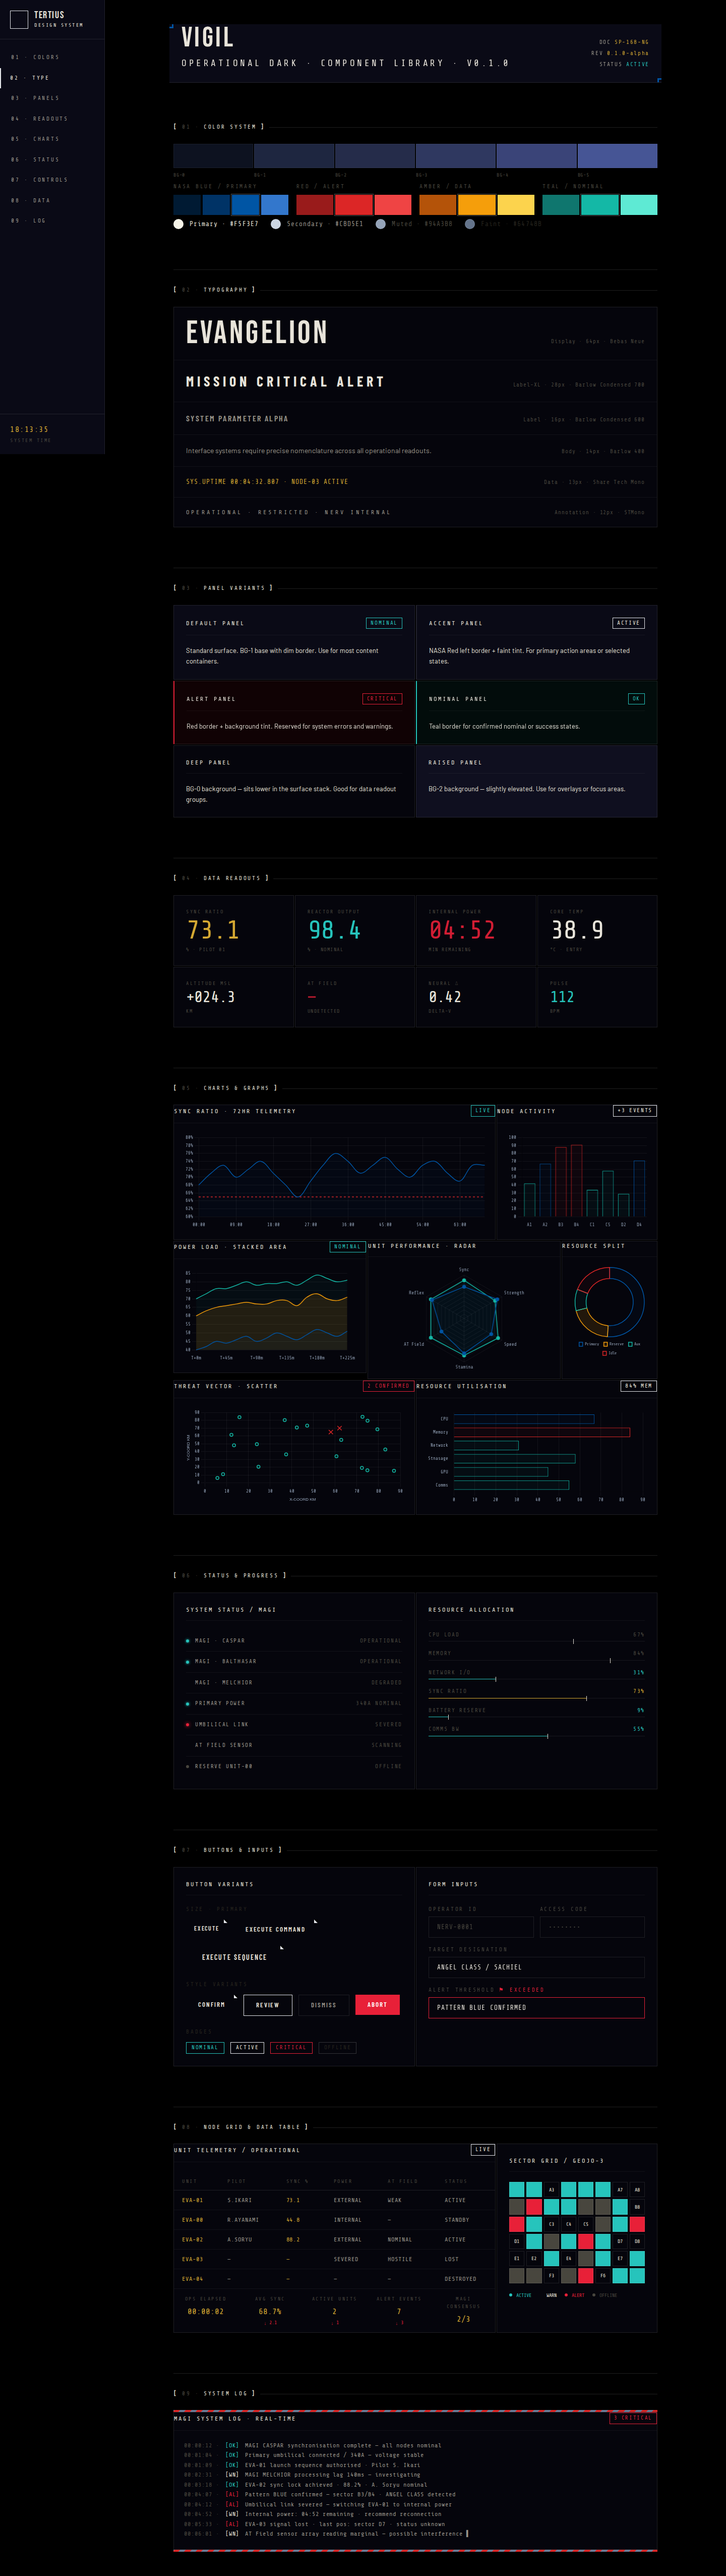
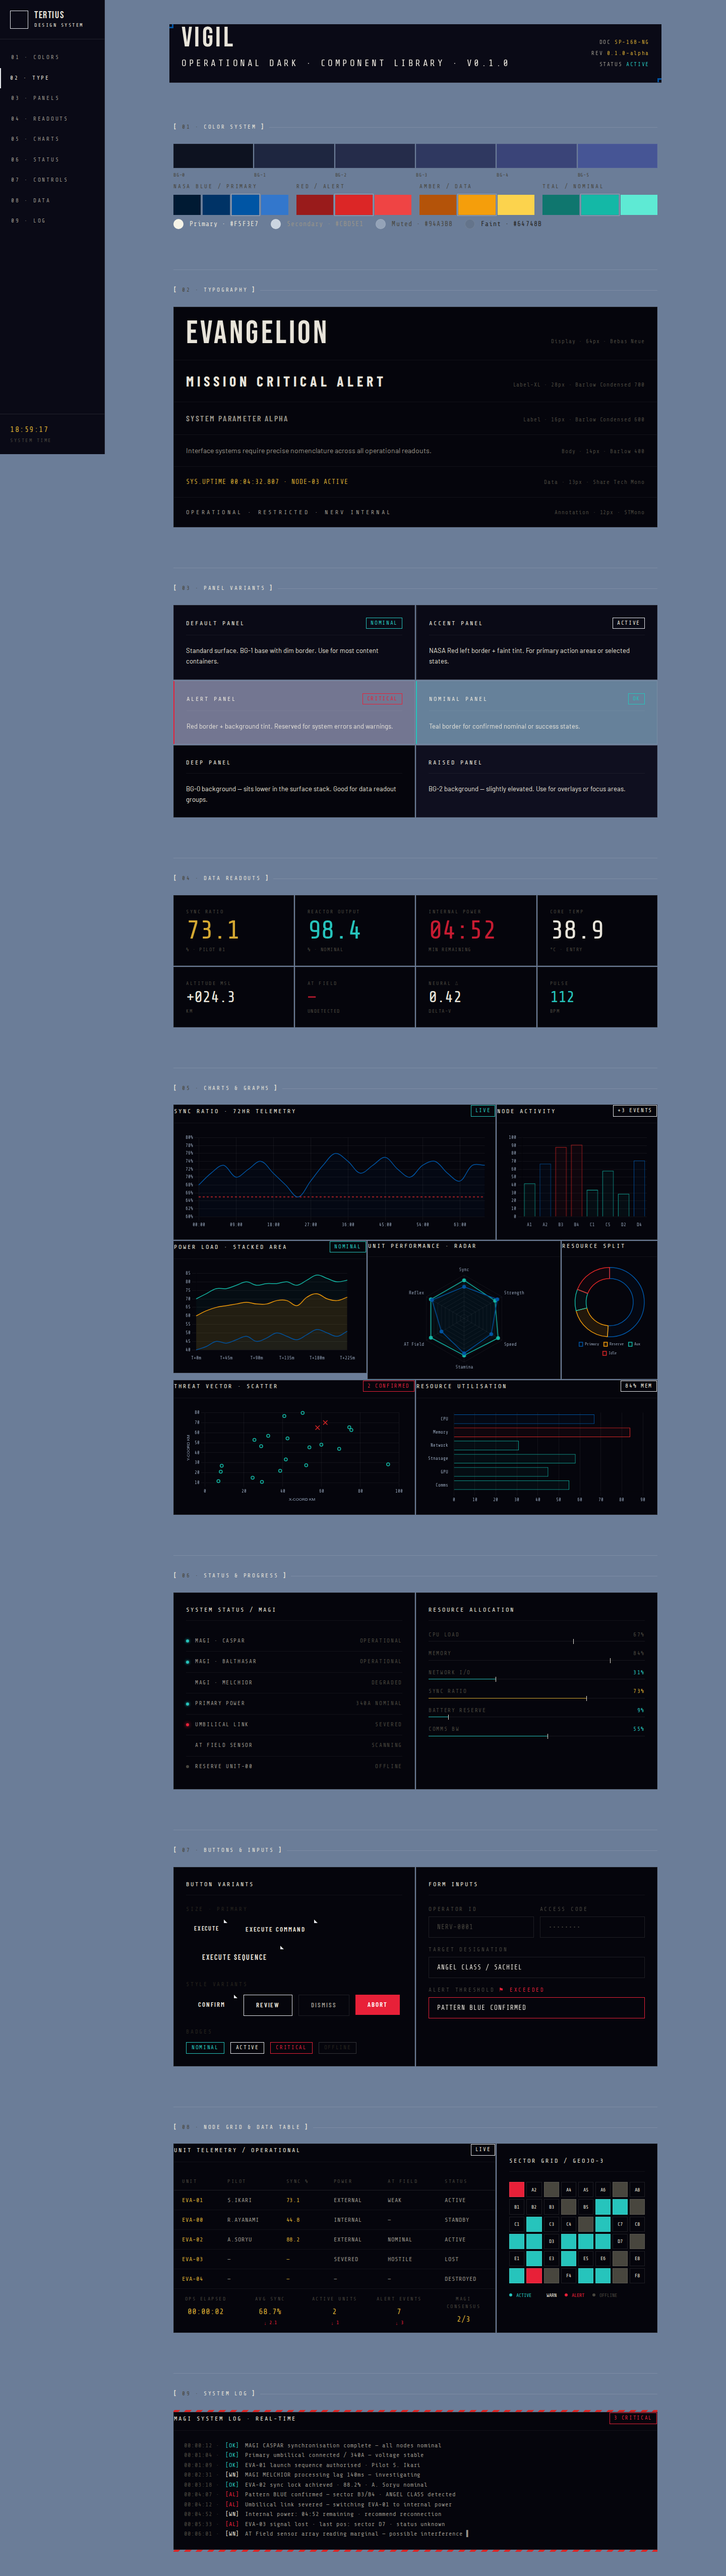
fix: remove bg-void from body — was causing dark band between warning stripe and content

diff --git a/src/app.html b/src/app.html
@@ -11,7 +11,7 @@
     />
     %sveltekit.head%
   </head>
-  <body data-sveltekit-preload-data="hover" class="bg-void text-ink-0">
+  <body data-sveltekit-preload-data="hover" class="text-ink-0">
     <div style="display: contents">%sveltekit.body%</div>
   </body>
 </html>

diff --git a/src/app.css b/src/app.css
@@ -17,6 +17,7 @@
     color: theme('colors.ink.0');
     font-family: theme('fontFamily.label');
     font-size: 13px;
+    min-height: 100vh;
   }
 }
 
